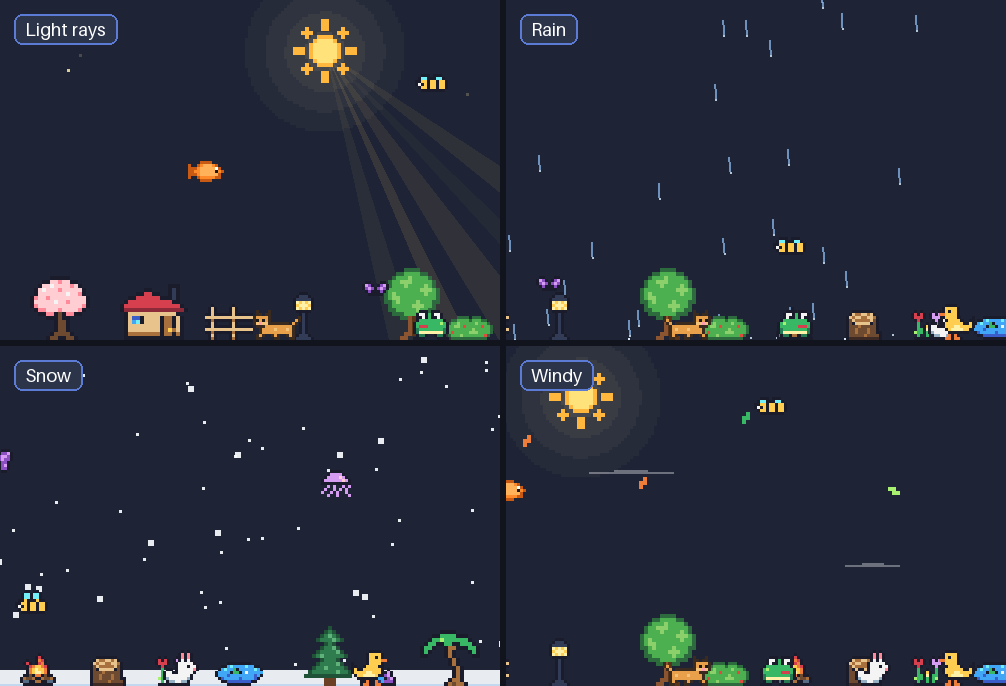
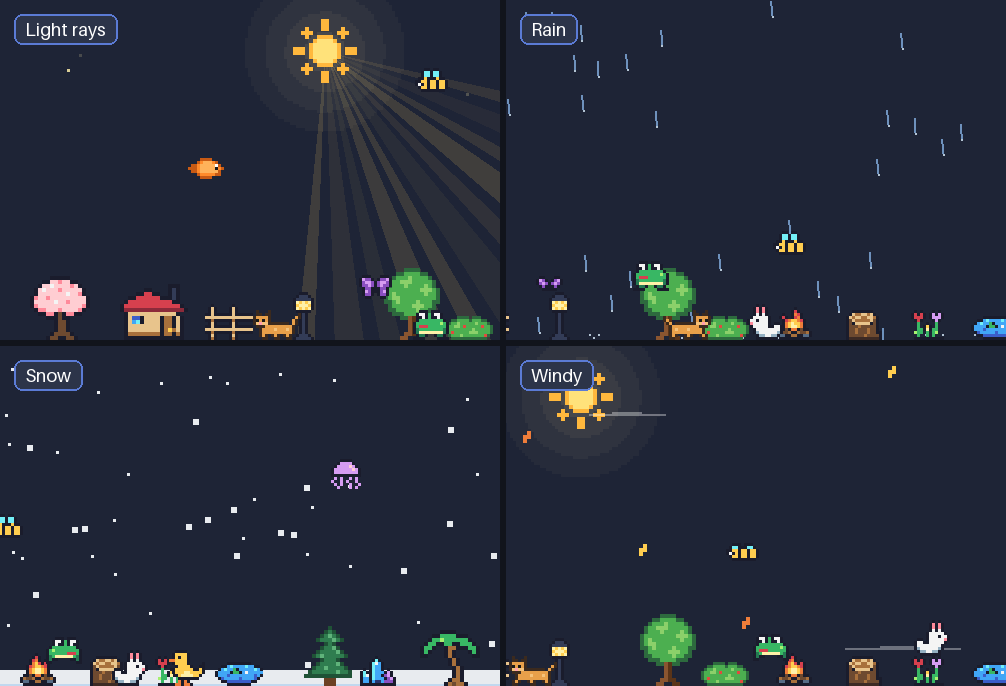
Light rays: 11 beams instead of 5, wider and a bit brighter

diff --git a/weather_window.py b/weather_window.py
@@ -32,6 +32,9 @@ def _mix(a, b, t):
     return tuple(int(x + (y - x) * t) for x, y in zip(a, b))
 RAY = (255, 208, 96)              # sunbeams
 RAY_MOON = (196, 214, 255)        # moonbeams
+# The light-ray beams: (angle from the middle of the fan, half-width), radians.
+BEAMS = ((-0.72, 0.03), (-0.58, 0.045), (-0.44, 0.03), (-0.31, 0.055), (-0.17, 0.035),
+         (-0.03, 0.06), (0.11, 0.03), (0.24, 0.05), (0.38, 0.035), (0.52, 0.05), (0.67, 0.03))
 FIREFLY = QColor("#e4ff5c")
 MOON_LIGHT = QColor("#f4efcf")
 MOON_SHADE = QColor("#c9c09a")
@@ -304,11 +307,10 @@ class WeatherWindow(QWidget):
         else:
             ox, oy = -width * 0.08, -height * 0.25
         colour = _mix(RAY, RAY_MOON, w.night)
-        strength = 0.11 - 0.025 * w.night
+        strength = 0.15 - 0.03 * w.night
         reach = math.hypot(width, height) * 1.2
         base = math.atan2(height * 0.9 - oy, width / 2 - ox)     # aim at the park
-        for i, (angle, spread) in enumerate(((-0.34, 0.05), (-0.17, 0.035), (0.0, 0.06),
-                                             (0.17, 0.03), (0.34, 0.045))):
+        for i, (angle, spread) in enumerate(BEAMS):
             angle += base
             pulse = 0.65 + 0.35 * math.sin(w.t * 0.4 + i * 1.7)
             c = QColor(*colour)
